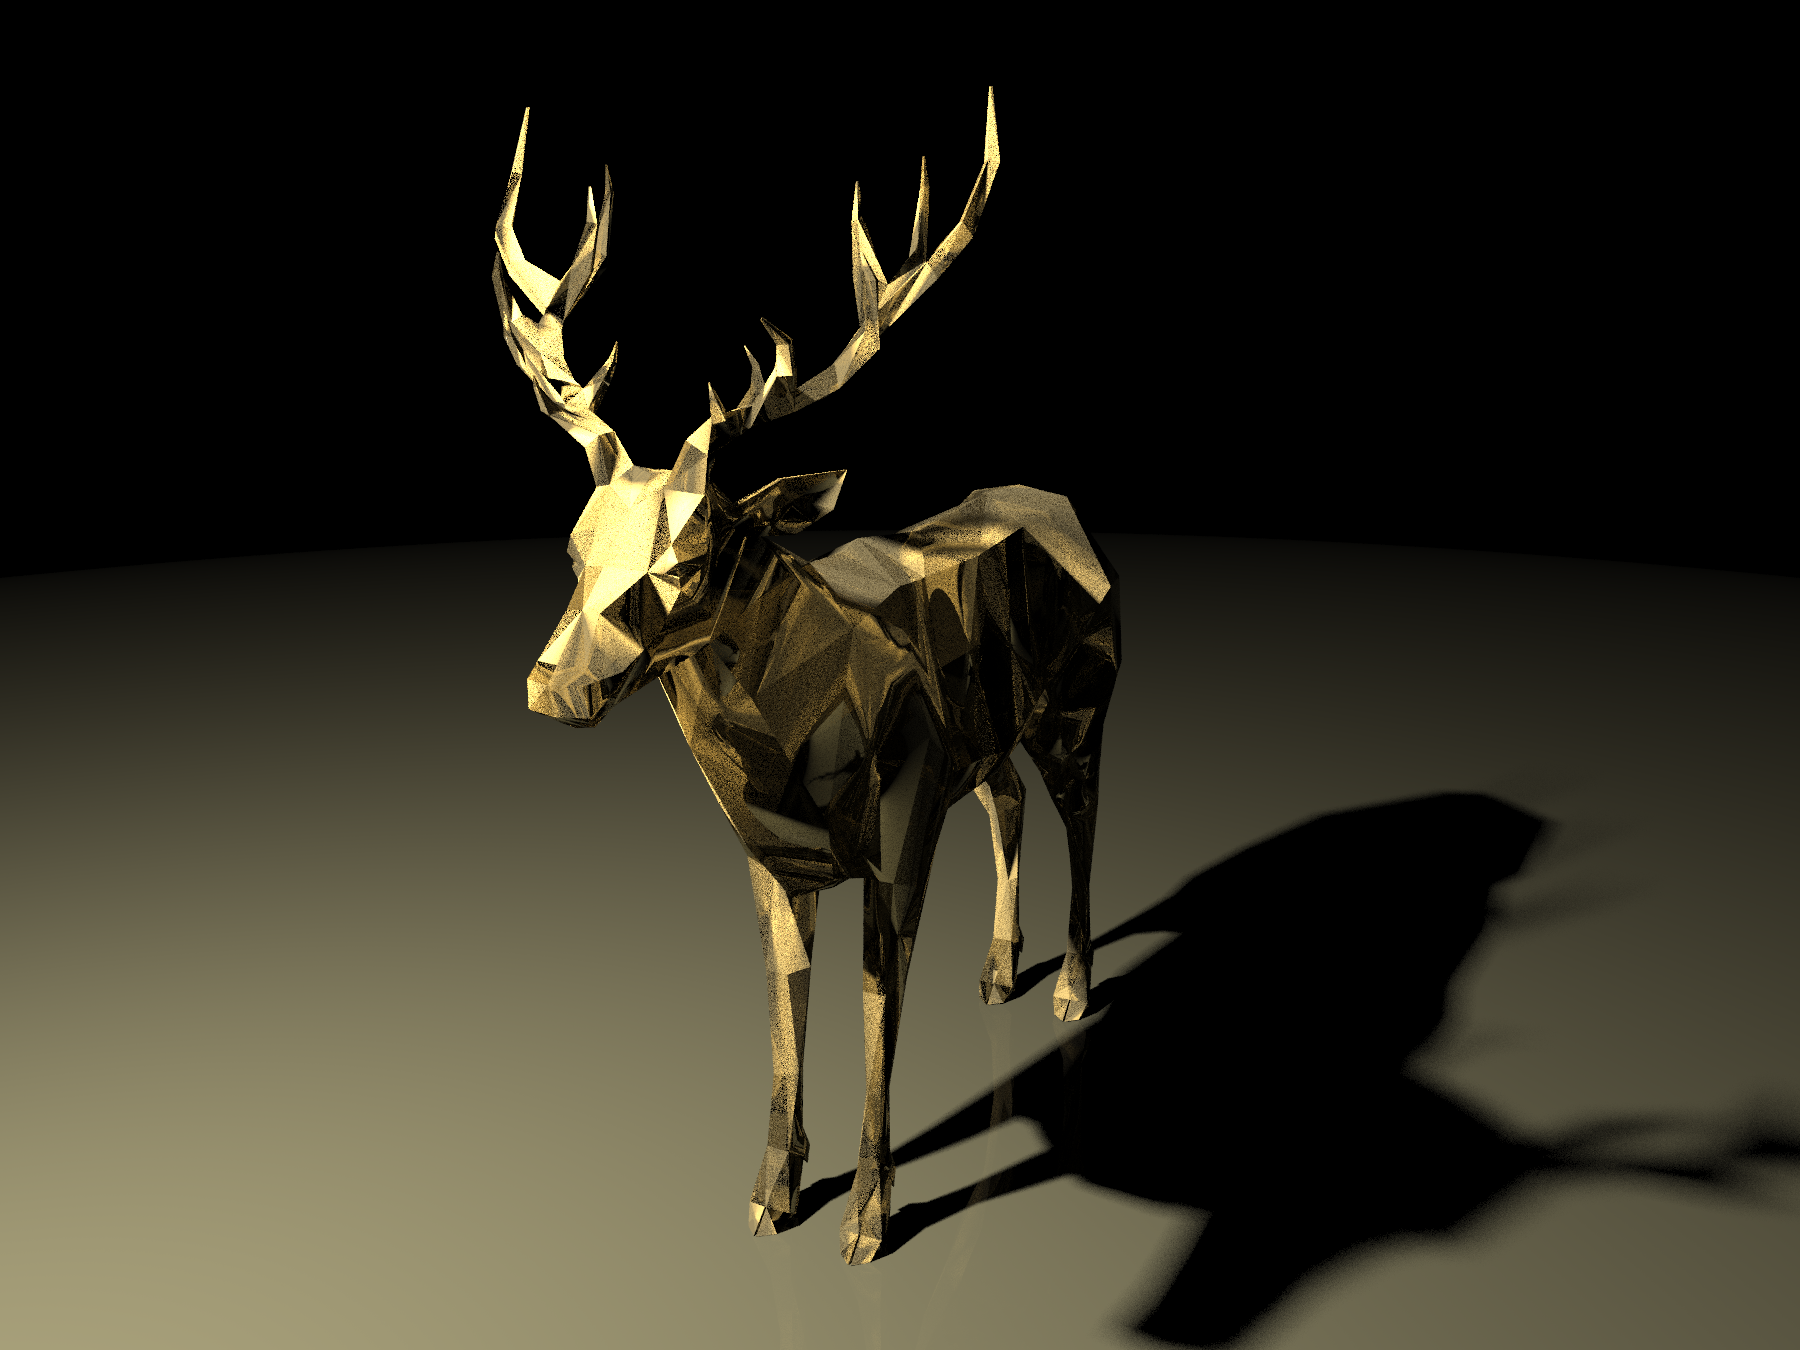
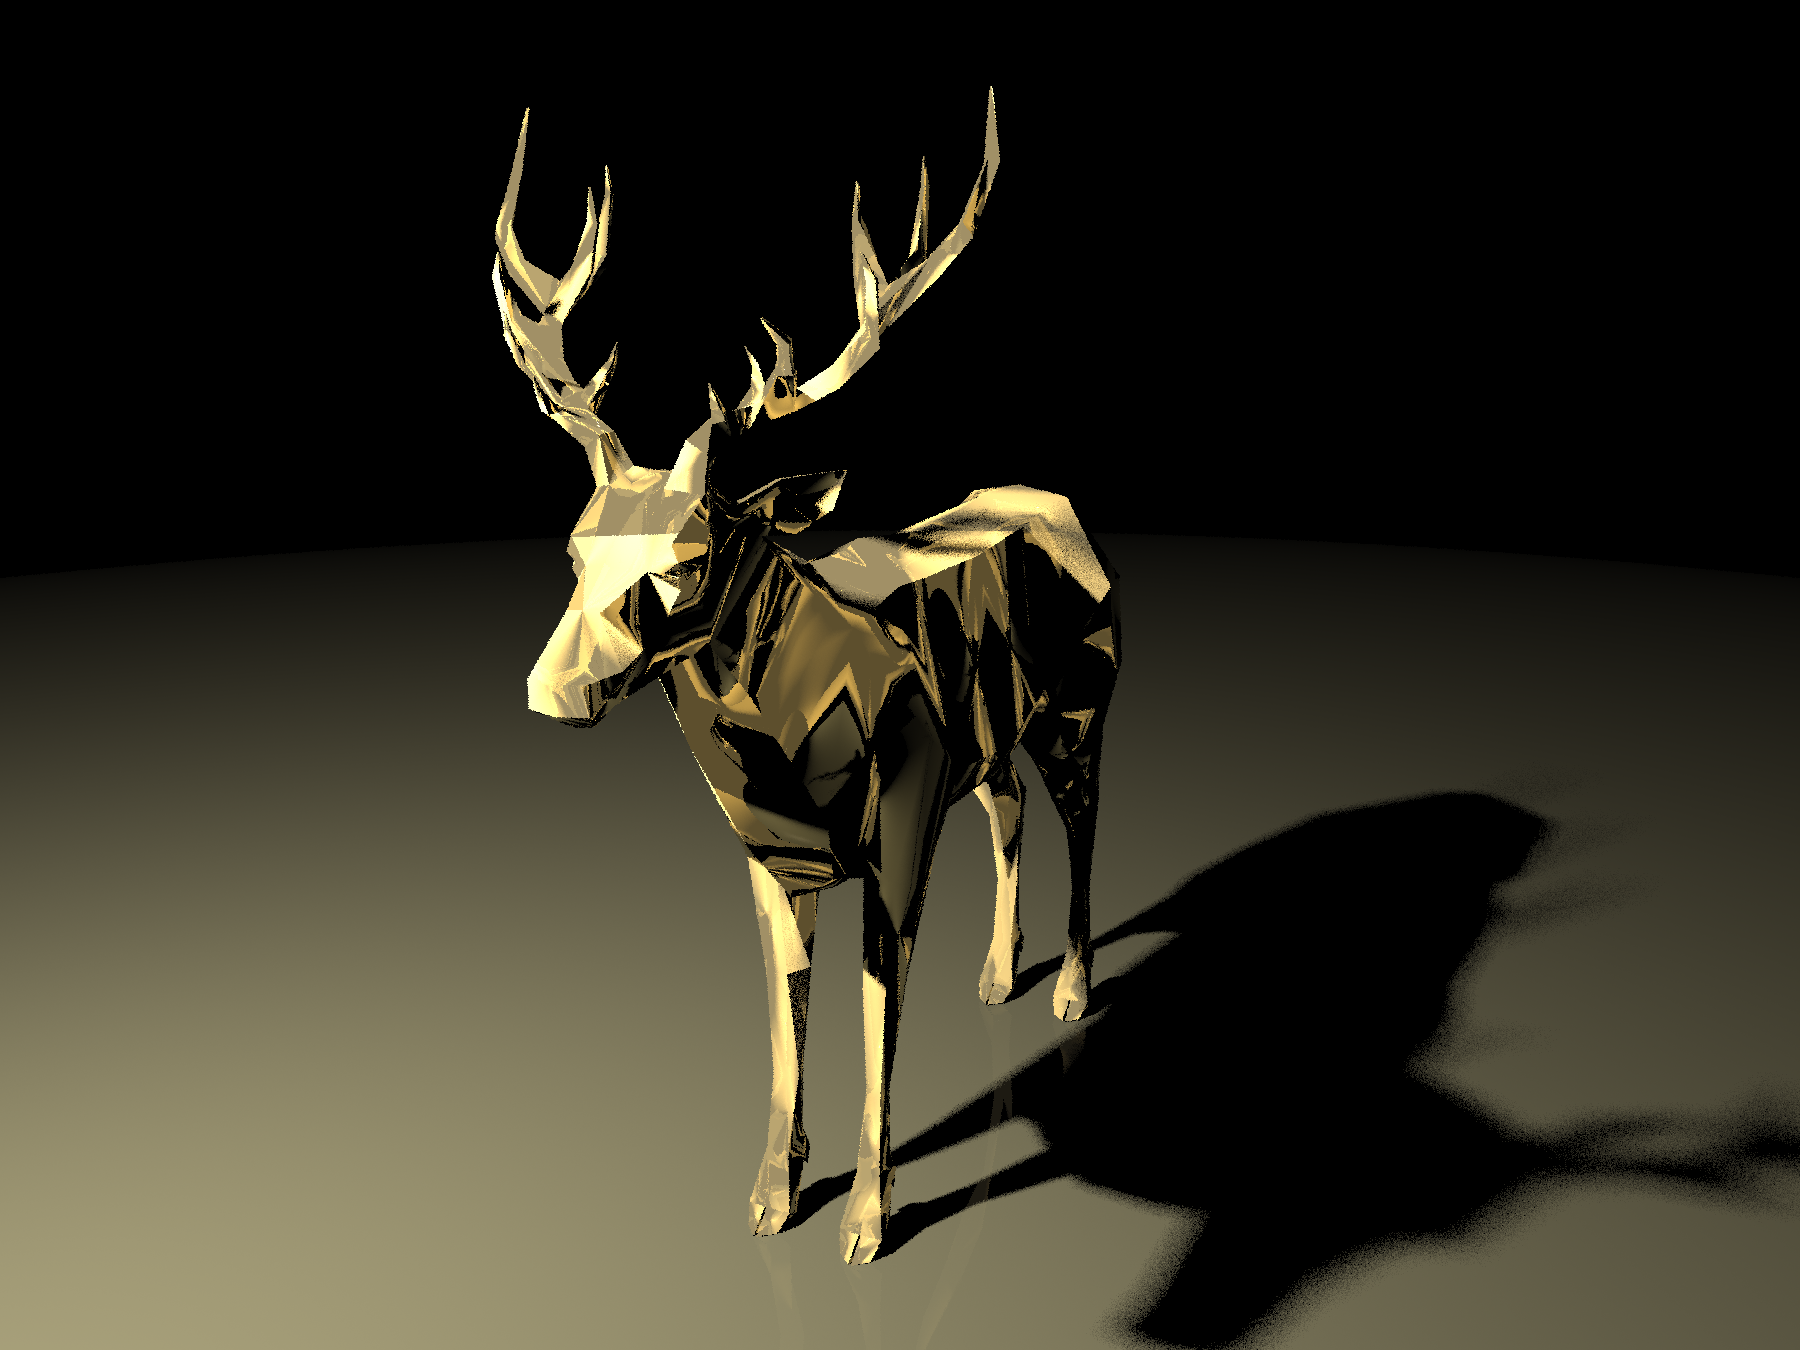
DRAFT: красное

diff --git a/src/physics/intersection.h b/src/physics/intersection.h
@@ -13,16 +13,14 @@ class intersection {
         intersection()
             : mat()
             , point(vec(0, 0, 0))
-            , t(0)
             , front_face(false)
             , normal(vec(0, 0, 0)) {
                 INCREMENT_OBJECT_COUNTER();
             }
 
-        intersection(material* mat, const point3& point, double t)
+        intersection(material* mat, const point3& point)
             : mat(mat)
             , point(point)
-            , t(t)
             , front_face(false)
             , normal(vec(0, 0, 0)) {
                 INCREMENT_OBJECT_COUNTER();
@@ -34,7 +32,6 @@ class intersection {
 
         material* mat;
         point3 point;
-        double t;
         bool front_face;
         vec normal;
 

diff --git a/src/scene/sphere.h b/src/scene/sphere.h
@@ -47,8 +47,6 @@ class sphere {
 
             intersection.mat = mat;
             intersection.point = ray.at(root);
-            intersection.t = root;
-
             vec outward_normal = (intersection.point - center) / radius;
             intersection.set_front_face(ray, outward_normal);
             intersection.set_normal(outward_normal);

diff --git a/src/scene/triangle.h b/src/scene/triangle.h
@@ -89,8 +89,6 @@ class triangle {
 
             intersection.mat = mat;
             intersection.point = ray.at(t);
-            // а нахуй нужен этот t?
-            intersection.t = t;
             intersection.set_normal(normal(intersection.point));
             // intersection.set_front_face(ray, n);
 
